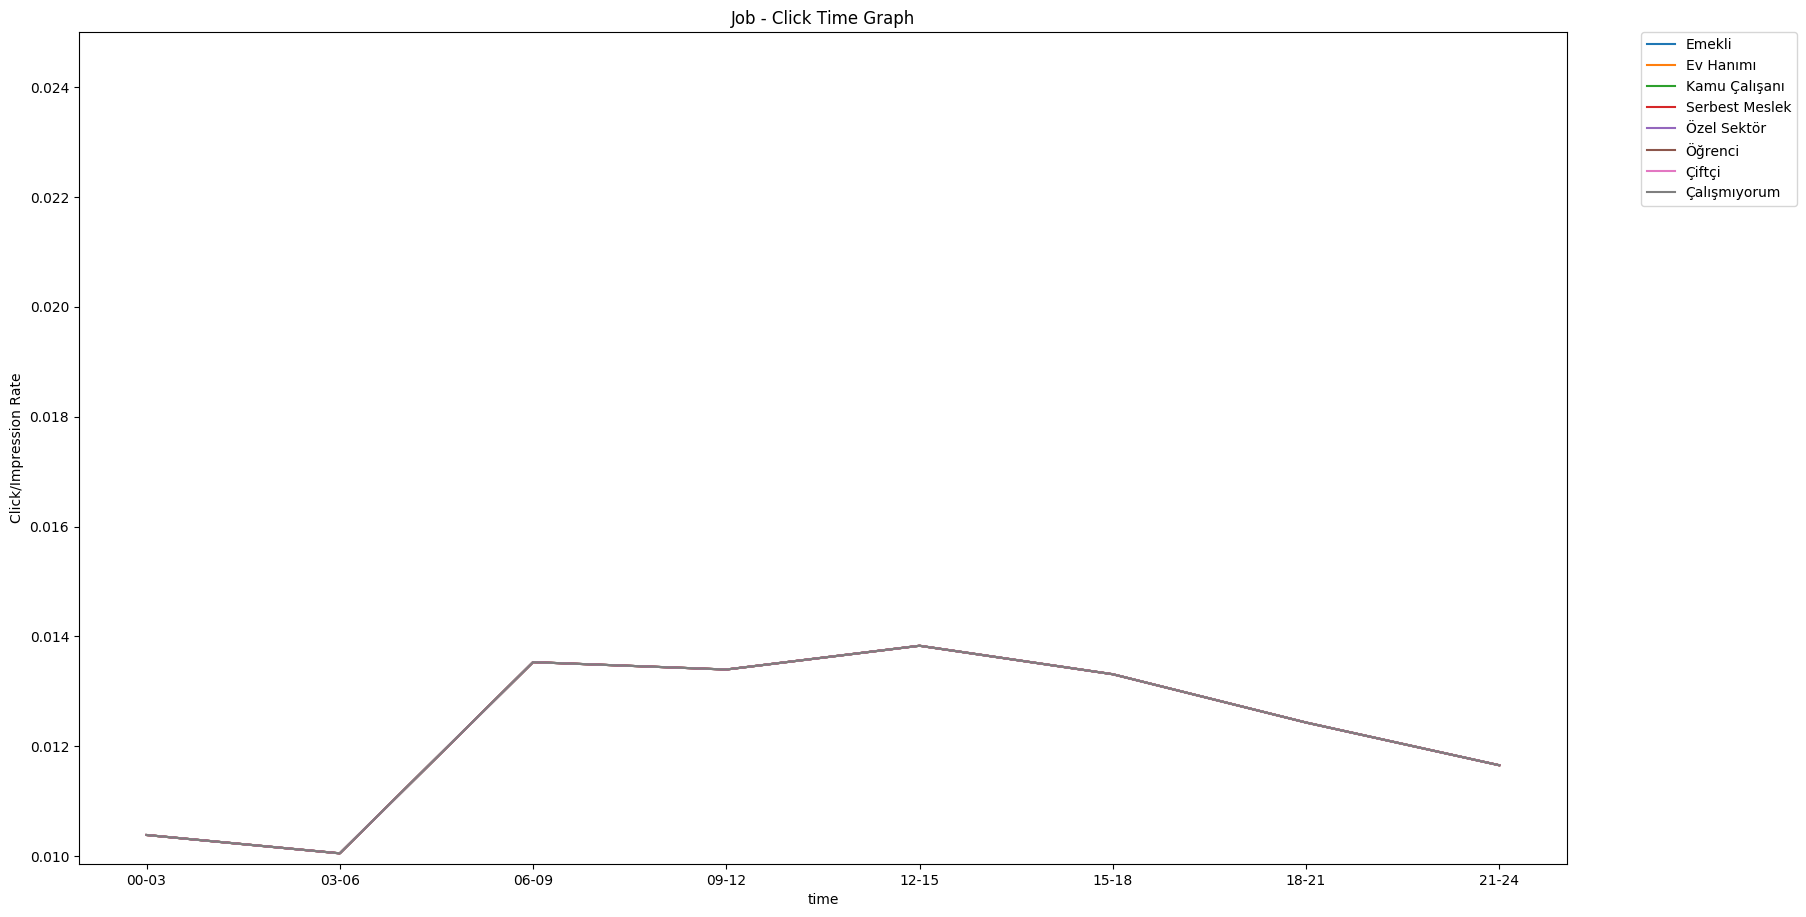
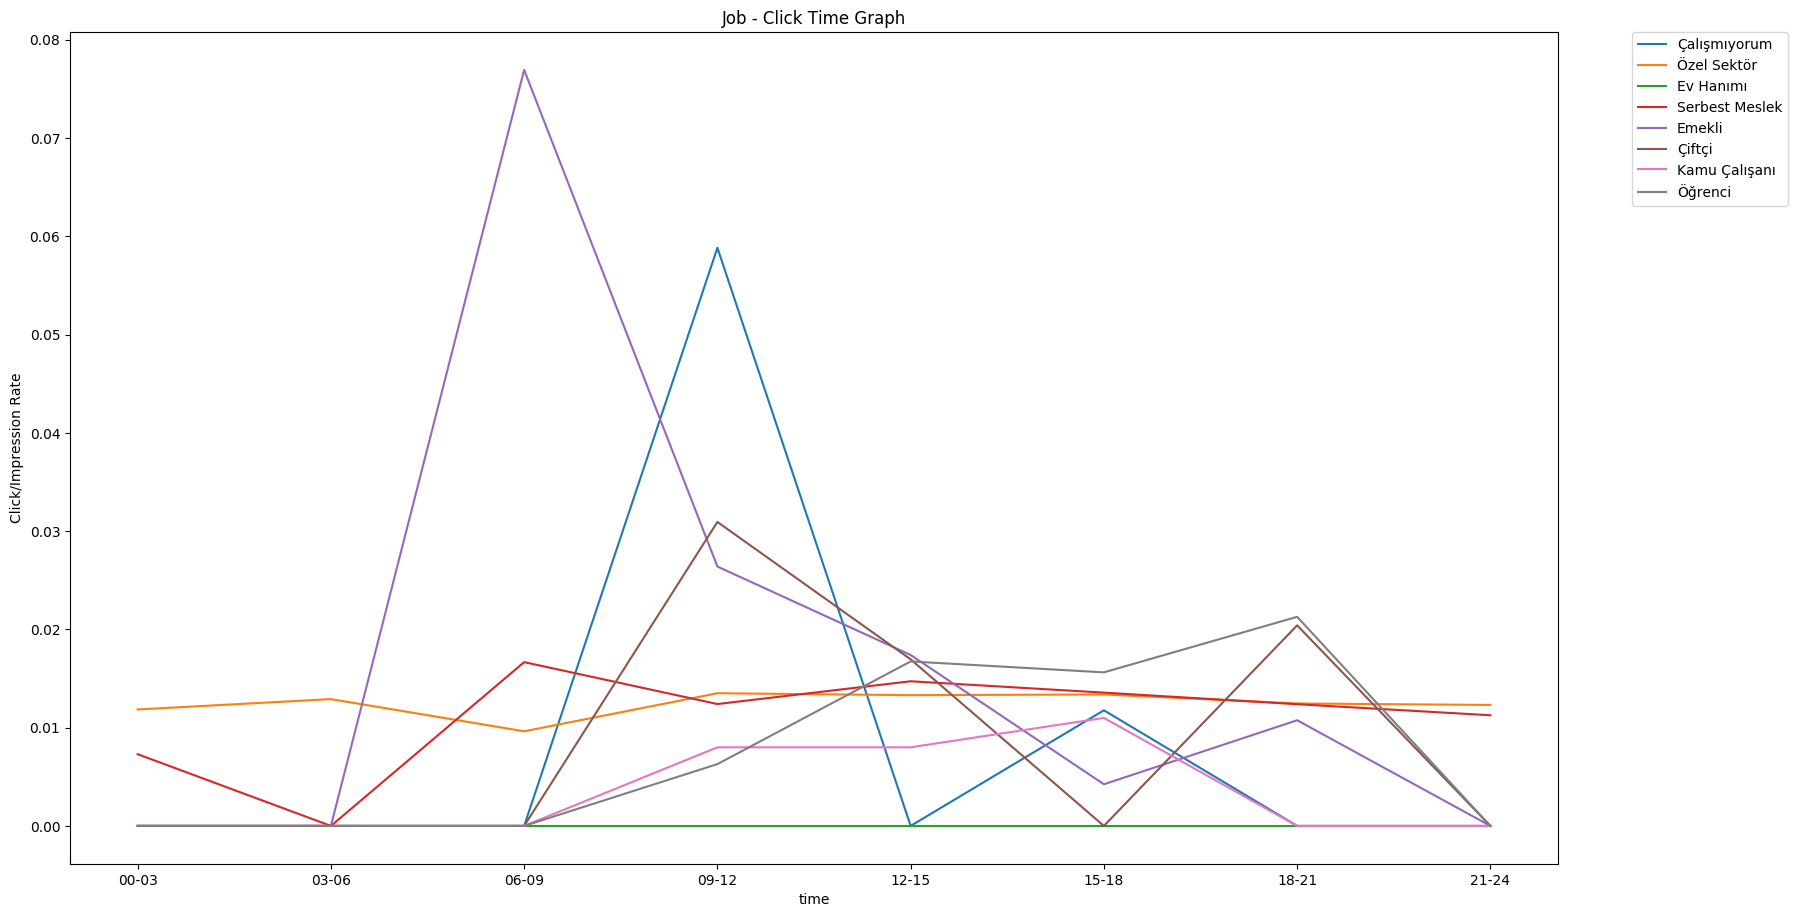
Plot click rate depending on time for job feature

diff --git a/devakademi2018.py b/devakademi2018.py
@@ -48,7 +48,7 @@ for item in all_data:
     elif ("21" <= hour < "24"):
         users[user_id][event_type][7] = users[user_id][event_type][7] + 1
 
-stats_dictionary = {"IMPRESSION": [0,0,0,0,0,0,0,0], "CLICK": [0,0,0,0,0,0,0,0]}
+stats_dictionary = {"RATIO": [0,0,0,0,0,0,0,0]}
 
 jobs = set([user["job"] for uid,user in users.items()])
 jobs = {job:stats_dictionary for job in jobs if job != ''}
@@ -65,41 +65,26 @@ martial_statuses = {martial_status:stats_dictionary for martial_status in martia
 genders = set([user["gender"] for uid,user in users.items()])
 genders = {gender:stats_dictionary for gender in genders if gender != ''}
 
+print(jobs)
+
+click_ratios = {
+    "jobs": {}
+}
 for job in jobs:
     user_group = [user for user in users.values() if user["job"] == job]
+    job_impression = [0,0,0,0,0,0,0,0]
+    job_click = [0,0,0,0,0,0,0,0]
     for user in user_group:
-        jobs[job]["IMPRESSION"] = [x + y for x, y in zip(jobs[job]["IMPRESSION"], user["IMPRESSION"])]
-        jobs[job]["CLICK"] = [x + y for x, y in zip(jobs[job]["CLICK"], user["CLICK"])]
-    jobs[job]["RATIO"] = [x / y if y != 0 else 0 for x, y in zip(jobs[job]["CLICK"], jobs[job]["IMPRESSION"])]
-
-for city in cities:
-    user_group = [user for user in users.values() if user["cityName"] == city]
-    for user in user_group:
-        cities[city]["IMPRESSION"] = [x + y for x, y in zip(cities[city]["IMPRESSION"], user["IMPRESSION"])]
-        cities[city]["CLICK"] = [x + y for x, y in zip(cities[city]["CLICK"], user["CLICK"])]
-    cities[city]["RATIO"] = [x / y if y != 0 else 0 for x, y in zip(cities[city]["CLICK"], cities[city]["IMPRESSION"])]
-
-for education_level in education_levels:
-    user_group = [user for user in users.values() if user["education"] == education_level]
-    for user in user_group:
-        education_levels[education_level]["IMPRESSION"] = [x + y for x, y in zip(education_levels[education_level]["IMPRESSION"], user["IMPRESSION"])]
-        education_levels[education_level]["CLICK"] = [x + y for x, y in zip(education_levels[education_level]["CLICK"], user["CLICK"])]
-    education_levels[education_level]["RATIO"] = [x / y if y != 0 else 0 for x, y in zip(education_levels[education_level]["CLICK"], education_levels[education_level]["IMPRESSION"])]
-
-for gender in genders:
-    user_group = [user for user in users.values() if user["gender"] == gender]
-    for user in user_group:
-        genders[gender]["IMPRESSION"] = [x + y for x, y in zip(genders[gender]["IMPRESSION"], user["IMPRESSION"])]
-        genders[gender]["CLICK"] = [x + y for x, y in zip(genders[gender]["CLICK"], user["CLICK"])]
-    genders[gender]["RATIO"] = [x / y if y != 0 else 0 for x, y in zip(genders[gender]["CLICK"], genders[gender]["IMPRESSION"])]
+        job_impression = [x + y for x, y in zip(user["IMPRESSION"], job_impression)]
+        job_click = [x + y for x, y in zip(user["CLICK"], job_click)]
+    click_ratios["jobs"][job] = [x / y if y != 0 else 0 for x, y in zip(job_click, job_impression)]
 
 plt.figure(figsize=(19.2, 10.8), dpi=100)
 for job in jobs:
     plt.title("Job - Click Time Graph")
     plt.ylabel("Click/Impression Rate")
     plt.xlabel("time")
-    plt.plot(["00-03", "03-06", "06-09", "09-12", "12-15", "15-18", "18-21", "21-24"], jobs[job]["RATIO"], label=job)
-plt.ylim(top=0.025)
+    plt.plot(["00-03", "03-06", "06-09", "09-12", "12-15", "15-18", "18-21", "21-24"], click_ratios["jobs"][job], label=job)
 plt.legend(bbox_to_anchor=(1.05, 1), loc=2, borderaxespad=0.)
 pylab.savefig("./plots/" + "jobs" + ".png", bbox_inches="tight")
 plt.clf()
